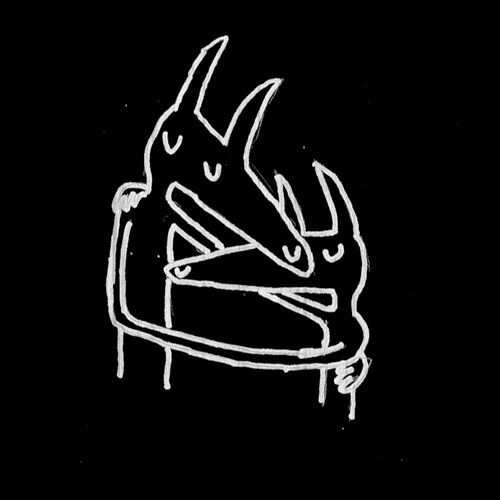
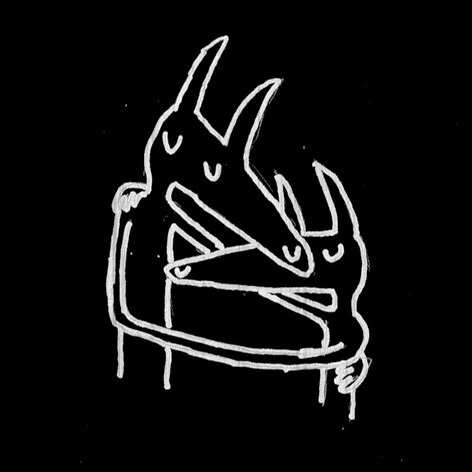
transition fix
The background-image transitions I used only work in google chrome and not in Firefox. Changed the structure to have a background and a <img> and just use opacity to change it

the transition does acutally look nicer like this imo since it doesn't need to fully complete to not clip forward in the animation.

Changed region(s): [[0.2076, 0.0593, 0.8008, 0.8898]]

diff --git a/sidan/index.css b/sidan/index.css
@@ -172,17 +172,22 @@ section:first-of-type>div:nth-child(1)>article>div:nth-child(1) {
     grid-column: 1 / span 2;
     grid-row: 1 / span 2;
     aspect-ratio: 1;
-    background-image: url(images/albumCover1.jpg);
+    background-image: url(images/albumCover1Alt.jpg);
     background-size: cover;
-    background-position: center;
+    background-position: right;
     transition: all 0.5s;
     border-radius: 0 15px 15px 0;
+    overflow: hidden;
 }
 
-section:first-of-type>div:nth-child(1)>article>div:nth-child(1):hover {
-    background-image: url(images/albumCover1Alt.jpg);
-    background-position: center;
-    background-size: cover;
+img {
+    width: 100%;
+    height: 100%;
+    transition: opacity 0.5s;
+}
+
+section:first-of-type>div:nth-child(1)>article>div:nth-child(1)>img:hover {
+    opacity: 0;
 }
 
 section:first-of-type>div:nth-child(1)>article>div:nth-child(2) {
@@ -290,15 +295,16 @@ section:last-of-type>div:nth-child(1)>article>div:nth-child(1) {
     grid-column: 1 / span 2;
     grid-row: 1 / span 2;
     aspect-ratio: 1;
-    background-image: url(images/albumCover2.jpg);
+    background-image: url(images/albumCover2Alt.jpg);
     background-size: cover;
     background-position: center;
     transition: all 0.5s;
     border-radius: 15px 15px 0 0;
+    overflow: hidden;
 }
 
-section:last-of-type>div:nth-child(1)>article>div:nth-child(1):hover {
-    background-image: url(images/albumCover2Alt.jpg);
+section:last-of-type>div:nth-child(1)>article>div:nth-child(1):hover img {
+    opacity: 0;
 }
 
 section:last-of-type>div:nth-child(1)>article>div:nth-child(2) {
@@ -592,10 +598,5 @@ section:last-of-type>div:nth-child(2)>div:nth-child(4) {
 @media (max-width:500px) {
     section div article div ol {
         font-size: 3vw;
-    }
-
-
-    section>div:nth-child(2)>div {
-        word-break: break-all;
     }
 }

diff --git a/sidan/index.html b/sidan/index.html
@@ -26,7 +26,9 @@
             -->
             <div>
                 <article>
-                    <div></div>
+                    <div>
+                        <img src="images/albumCover1.jpg" alt="">
+                    </div>
                     <div>
                         <h3>SIDE A/B</h3>
                         <ol>
@@ -97,7 +99,9 @@
             -->
             <div>
                 <article>
-                    <div></div>
+                    <div>
+                        <img src="images/albumCover2.jpg" alt="">
+                    </div>
                     <div>
                         <h3>SIDE A</h3>
                         <ol>
